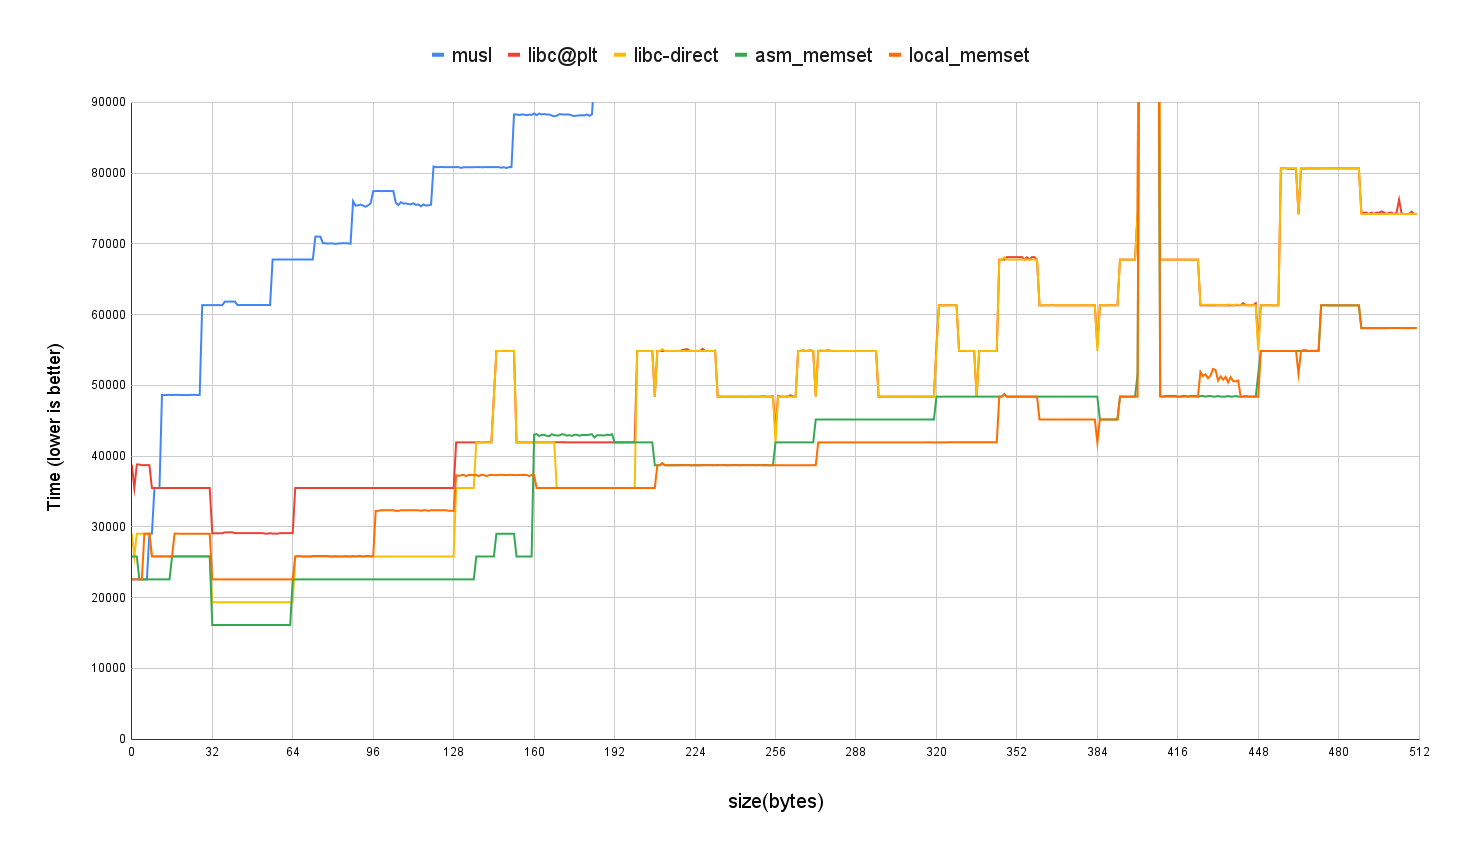
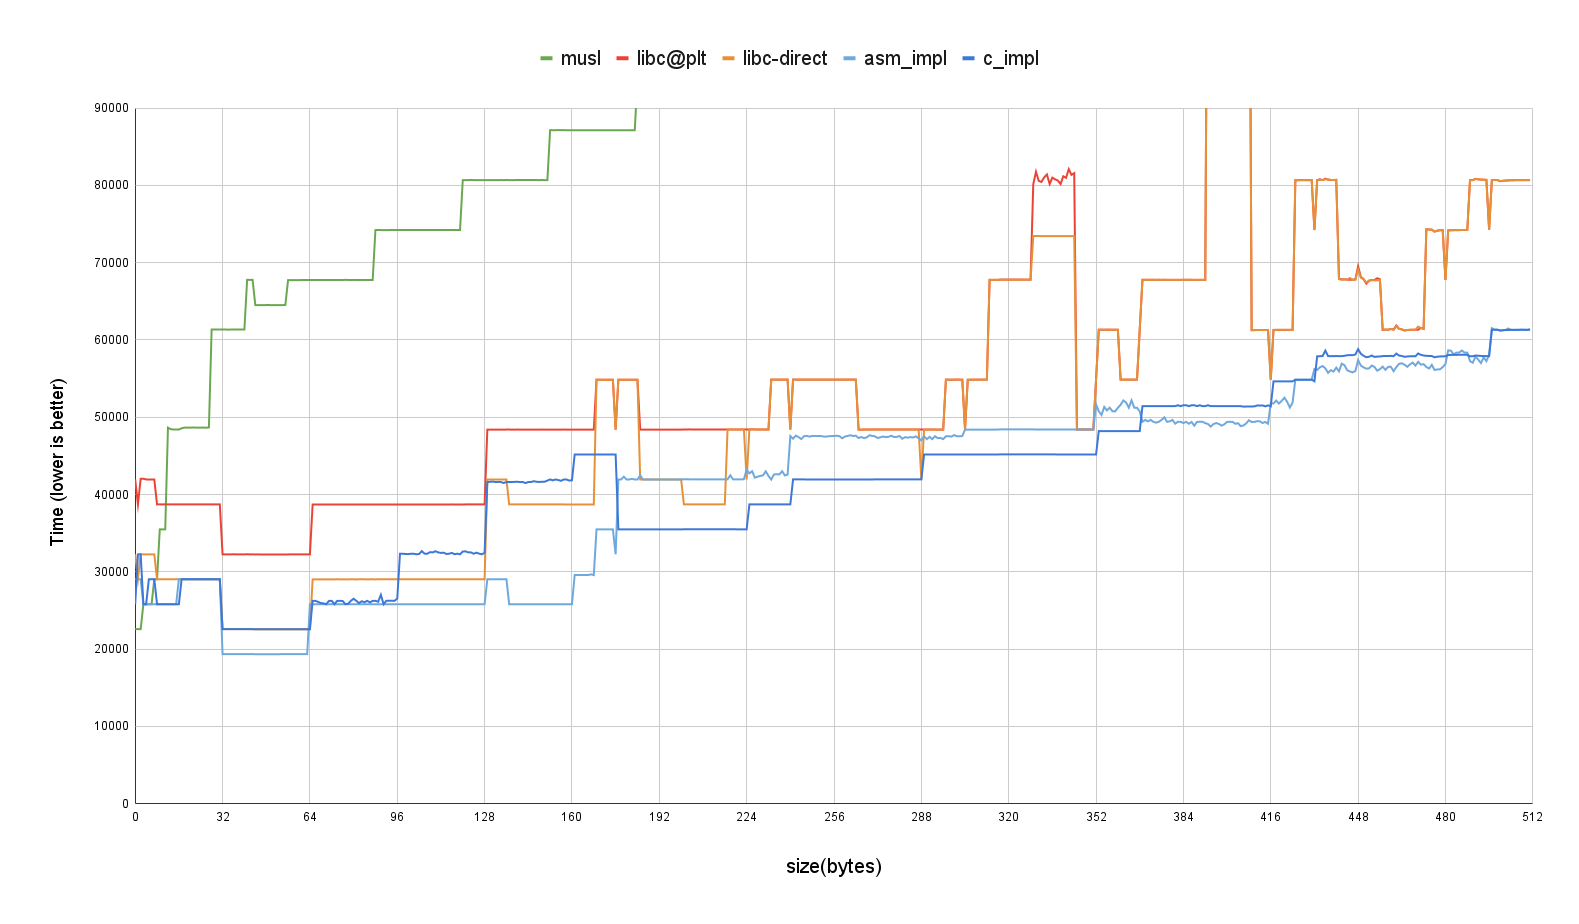
[doc] Update the benchmark and readme.

diff --git a/README.md b/README.md
@@ -1,23 +1,25 @@
 # memset_benchmark
 
-This repository contains a fast 100 LOC C implementation of memset for x86.
+This repository contains two fast memset implementations for x86. They both
+outperform the glibc implementation, even when excluding the elf indirection.
+The first implementation is 100 lines of C code, and the other implementation is
+a short assembly function.
 
 After reading a blog [post](https://msrc-blog.microsoft.com/2021/01/11/building-faster-amd64-memset-routines/)
-by Joe Bialek, I decided to try to optimize memset. It
-turns out that the libc library is not very efficient, and it's not hard to
-write an implementation that outperforms the default libc implementation.
+by Joe Bialek, I decided to try to optimize memset. It turns out that the glibc
+implementation is good, but it could be improved.
 
 The implementation of memset in this repository is faster than the glibc
 implementation for most sizes. The chart below compares this code with the musl
-implementation and two libc configurations. The first configuration is a regular
-function call, and the second configuration is a direct call to libc's memset
-that bypasses the elf indirection, as suggested by Dave Zarzycki.
+implementation and two libc configurations (with and without elf indirection, as
+suggested by Dave Zarzycki). The benchmark also shows the two memset
+implementations from this project.
 
 ![Benchmark](docs/bench.png)
 
 
-The repository contains a few utilities for testing and measuring the performance of
-memset.
+The repository also contains a few utilities for testing and measuring the
+performance of memset.
 
 ## Test tool
 
